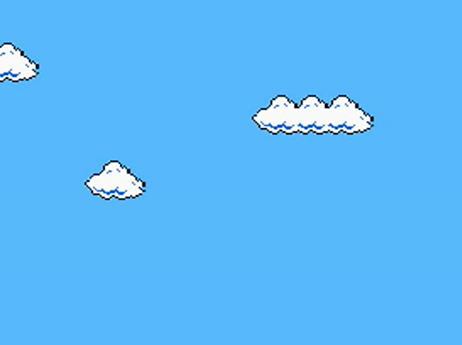
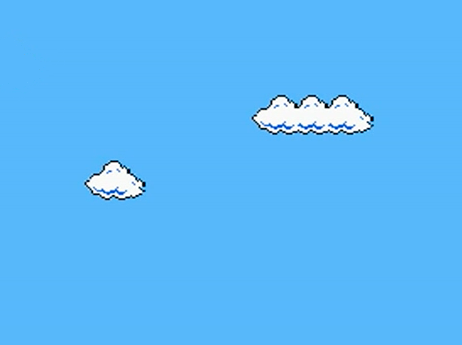
Parallax : implemented

Changed region(s): [[0.0, 0.1159, 0.0909, 0.2609]]

diff --git a/MarioLike/include/models/toto.h b/MarioLike/include/models/toto.h
@@ -10,8 +10,6 @@
 #include <component/BoxColliderComponent.h>
 #include <iostream>
 #include "managers/InputManager.h"
-#include "engine/GameEngine.h"
-
 class toto : public Entity
 {
 public:
@@ -29,7 +27,7 @@ public:
         auto inputManager = InputManager::GetInstance();
         inputManager->AddSlot(sf::Keyboard::Q, new Event::Slot<>(this, &toto::MoveLeft));
         inputManager->AddSlot(sf::Keyboard::D, new Event::Slot<>(this, &toto::MoveRight));
-        inputManager->AddSlot(sf::Keyboard::Space, new Event::Slot<>(this, &toto::jump));
+        //inputManager->AddSlot(sf::Keyboard::Space, new Event::Slot<>(this, &toto::jump));
     };
     void Update(float deltaT) override {
         Entity::Update(deltaT);
@@ -38,32 +36,15 @@ public:
     void MoveRight()
     {
         auto t = GetComponent<Transform>();
-        auto lastPos = t->GetPosition();
         m_lastposition = t->m_position;
         t->Translate(0, 0.1, 0);
-        if (!EntityManager::GetInstance()->MoveEntity(this))
-        {
-            t->SetPosition(lastPos);
-        }
+        //std::cout << t->m_position.x*16 << " , " << t->m_position.x << std::endl;
     }
     void MoveLeft()
     {
         auto t = GetComponent<Transform>();
-        auto lastPos = t->GetPosition();
         m_lastposition = t->m_position;
         t->Translate(0, -0.1, 0);
-        if (!EntityManager::GetInstance()->MoveEntity(this))
-        {
-            t->SetPosition(lastPos);
-        }
-    }
-    void jump()
-    {
-        auto t = GetComponent<PhysicsComponent>();
-        if (t->isGrounded) {
-            float deltaT = GameEngine::GetInstance()->GetDeltaTime();
-            t->isGrounded = false;
-            t->jumpForce -= 200000*deltaT;
-        }
+        //std::cout << t->m_position.x * 16 << " , " << t->m_position.x << std::endl;
     }
 };

diff --git a/MarioLike/src/managers/LevelManager.cpp b/MarioLike/src/managers/LevelManager.cpp
@@ -3,7 +3,6 @@
 #include <managers/RenderManager.h>
 #include <managers/EntityManager.h>
 #include <engine/GameEngine.h>
-class toto;
 
 LevelManager* LevelManager::m_instance = nullptr;
 
@@ -20,6 +19,7 @@ LevelManager* LevelManager::GetInstance()
 LevelManager::LevelManager()
 {
 	m_level = nullptr;
+	m_parallaxSky = new Background({0,0});
 }
 
 LevelManager::~LevelManager()
@@ -32,6 +32,11 @@ LevelManager::~LevelManager()
 	if (m_instance != nullptr)
 	{
 		delete m_instance;
+	}
+
+	if (m_parallaxSky != nullptr)
+	{
+		delete m_parallaxSky;
 	}
 }
 
@@ -53,7 +58,8 @@ void LevelManager::RenderLevel()
 {
 	RenderManager* renderManager = RenderManager::GetInstance();
 	m_sky = new Background({ 0,0 });
-	RenderManager::GetInstance()->AddDrawCall(new DrawCall(m_sky, 1));
+	m_mainSky = m_sky;
+	RenderManager::GetInstance()->AddDrawCall(new DrawCall(m_sky, 2));
 	for (std::vector<Entity*> line : m_level->m_map) {
 		for (Entity* entity : line) {
 			renderManager->AddDrawCall(new DrawCall(entity, 1));
@@ -90,7 +96,18 @@ void LevelManager::MoveLevel()
 	if (right)
 	{
 		t->GetComponent<Transform>()->m_position = t->m_lastposition;
+		if (m_mainSky->GetComponent<Transform>()->m_position.x < -0.85)
+		{
+			m_sky->GetComponent<Transform>()->m_position.x = m_parallaxSky->GetComponent<Transform>()->m_position.x + 0.85;
+		}
+		else if (m_mainSky->GetComponent<Transform>()->m_position.x < 0)
+		{
+			m_parallaxSky->GetComponent<Transform>()->m_position.x = m_sky->GetComponent<Transform>()->m_position.x + 0.85;
+			std::cout << m_sky->GetComponent<Transform>()->m_position.x << std::endl;
+			RenderManager::GetInstance()->AddDrawCall(new DrawCall(m_parallaxSky, 3));
+		}
 		m_sky->GetComponent<Transform>()->m_position.x -= 0.001;
+		m_parallaxSky->GetComponent<Transform>()->m_position.x -= 0.001;
 	}
 	else if (left)
 	{

diff --git a/MarioLike/src/managers/RenderManager.cpp b/MarioLike/src/managers/RenderManager.cpp
@@ -1,6 +1,7 @@
 #include "managers/RenderManager.h"
 #include <models/Entity.h>
 #include <vector>
+#include <algorithm>
 
 RenderManager* RenderManager::m_instance = nullptr;
 RenderManager* RenderManager::GetInstance()
@@ -12,8 +13,15 @@ RenderManager* RenderManager::GetInstance()
 	return m_instance;
 }
 
+struct
+{
+	bool operator() (DrawCall* a, DrawCall* b) const { return a->m_plan > b->m_plan; }
+} sortRender;
+
 void RenderManager::RenderLevel(sf::RenderTarget& _target)
 {
+	//sort m_torender
+	std::sort(m_toRender.begin(), m_toRender.end(), sortRender);
 	for (DrawCall* call : m_toRender) 
 	{
 		Vec2f position;

diff --git a/MarioLike/include/managers/RenderManager.h b/MarioLike/include/managers/RenderManager.h
@@ -14,5 +14,6 @@ public:
 	void RenderLevel(sf::RenderTarget& _target);
 	void AddDrawCall(DrawCall*);
 	bool FindEntity(Entity* entity);
+	//bool sortRender(DrawCall* a, DrawCall* b);
 };
 

diff --git a/MarioLike/include/managers/EntityManager.h b/MarioLike/include/managers/EntityManager.h
@@ -4,7 +4,7 @@
 #include <models/Entity.h>
 #include <unordered_map>
 #include <component/Transform.h>
-class toto;
+#include <models/toto.h>
 class EntityManager
 {
 public:

diff --git a/MarioLike/include/managers/LevelManager.h b/MarioLike/include/managers/LevelManager.h
@@ -20,4 +20,6 @@ private:
 	static LevelManager* m_instance;
 	Level* m_level;
 	Background* m_sky;
+	Background* m_parallaxSky;
+	Background* m_mainSky;
 };
